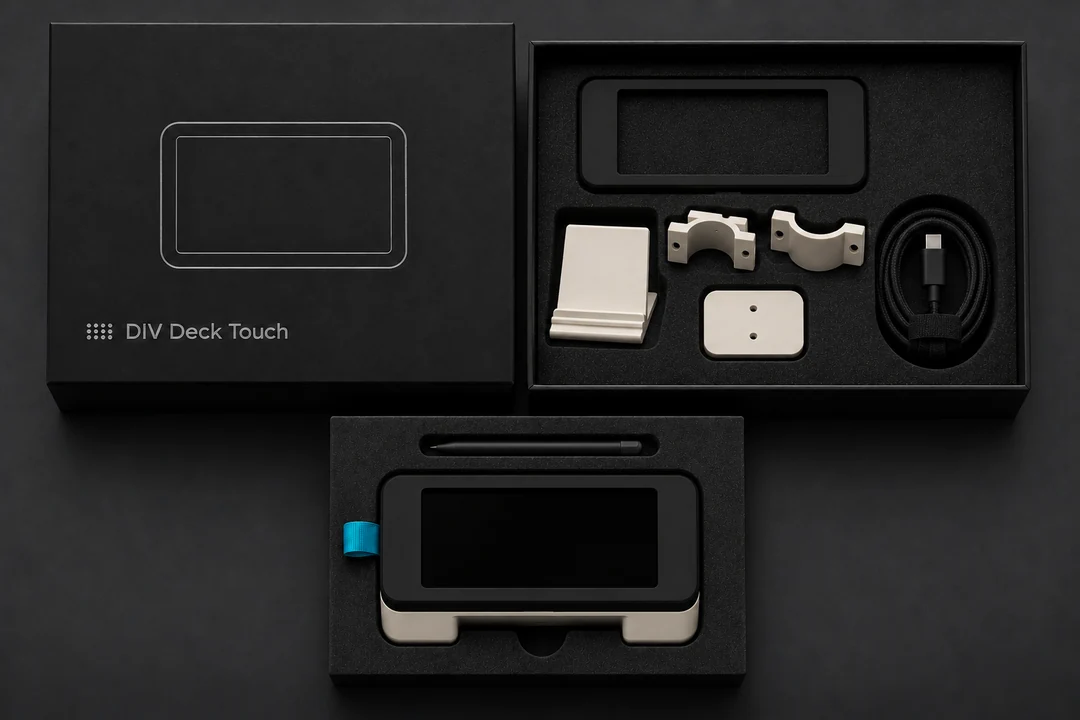
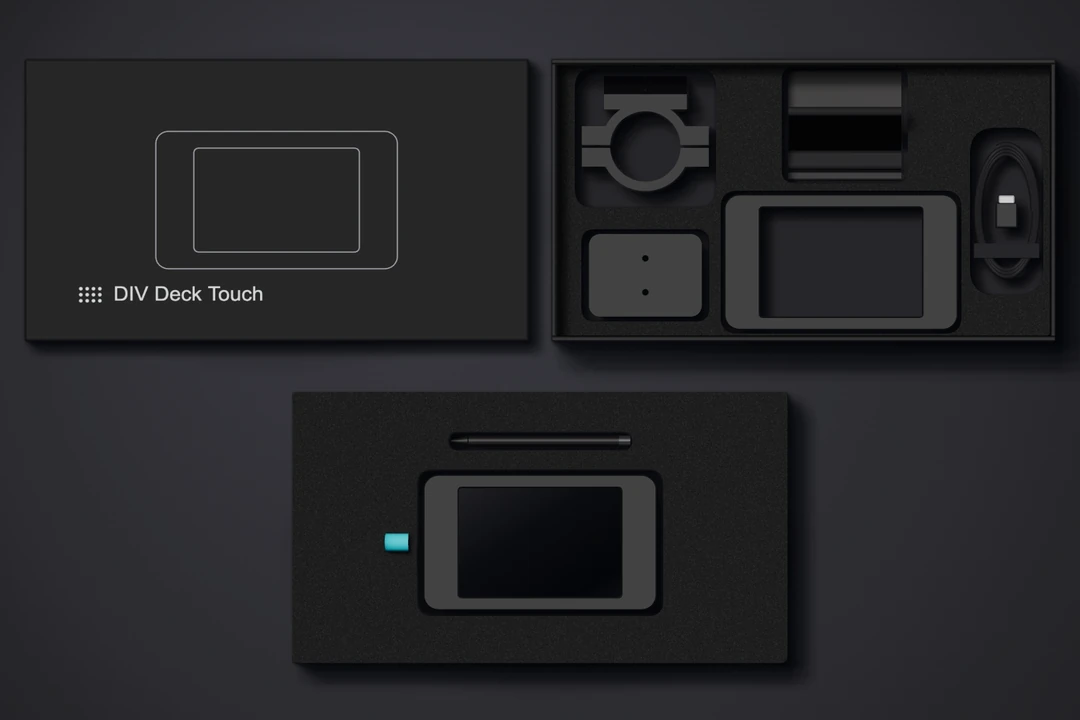
fix(site): render Touch packaging from actual v6 CAD

Changed region(s): [[0.0306, 0.0306, 1.0, 1.0], [0.2444, 0.0306, 0.275, 0.0611], [0.0306, 0.4583, 0.0611, 0.4889]]

diff --git a/docs/index.html b/docs/index.html
@@ -420,8 +420,8 @@ footer a { color: var(--text-2); }
       <p>Deck e caneta juntos no berço. Embaixo: face extra, suportes de mesa e de tubo e cabo USB-C.</p>
       <div class="pack-shots">
         <a href="img/embalagens/touch-lacrada.webp" data-pack-image="DIV Deck Touch · Caixa lacrada"><img src="img/embalagens/touch-lacrada.webp" alt="" width="1080" height="720" loading="lazy" decoding="async">Caixa lacrada</a>
-        <a href="img/embalagens/touch-aberta.webp" data-pack-image="DIV Deck Touch · Caixa aberta"><img src="img/embalagens/touch-aberta.webp" alt="" width="1080" height="720" loading="lazy" decoding="async">Caixa aberta</a>
-        <a href="img/embalagens/touch-acessorios.webp" data-pack-image="DIV Deck Touch · Acessórios"><img src="img/embalagens/touch-acessorios.webp" alt="" width="1080" height="720" loading="lazy" decoding="async">Acessórios</a>
+        <a href="img/embalagens/touch-aberta.webp?v=cad-v6" data-pack-image="DIV Deck Touch · Caixa aberta"><img src="img/embalagens/touch-aberta.webp?v=cad-v6" alt="" width="1080" height="720" loading="lazy" decoding="async">Caixa aberta</a>
+        <a href="img/embalagens/touch-acessorios.webp?v=cad-v6" data-pack-image="DIV Deck Touch · Acessórios"><img src="img/embalagens/touch-acessorios.webp?v=cad-v6" alt="" width="1080" height="720" loading="lazy" decoding="async">Acessórios</a>
       </div>
     </article>
   </div>

diff --git a/web/index.template.html b/web/index.template.html
@@ -420,8 +420,8 @@ footer a { color: var(--text-2); }
       <p>Deck e caneta juntos no berço. Embaixo: face extra, suportes de mesa e de tubo e cabo USB-C.</p>
       <div class="pack-shots">
         <a href="img/embalagens/touch-lacrada.webp" data-pack-image="DIV Deck Touch · Caixa lacrada"><img src="img/embalagens/touch-lacrada.webp" alt="" width="1080" height="720" loading="lazy" decoding="async">Caixa lacrada</a>
-        <a href="img/embalagens/touch-aberta.webp" data-pack-image="DIV Deck Touch · Caixa aberta"><img src="img/embalagens/touch-aberta.webp" alt="" width="1080" height="720" loading="lazy" decoding="async">Caixa aberta</a>
-        <a href="img/embalagens/touch-acessorios.webp" data-pack-image="DIV Deck Touch · Acessórios"><img src="img/embalagens/touch-acessorios.webp" alt="" width="1080" height="720" loading="lazy" decoding="async">Acessórios</a>
+        <a href="img/embalagens/touch-aberta.webp?v=cad-v6" data-pack-image="DIV Deck Touch · Caixa aberta"><img src="img/embalagens/touch-aberta.webp?v=cad-v6" alt="" width="1080" height="720" loading="lazy" decoding="async">Caixa aberta</a>
+        <a href="img/embalagens/touch-acessorios.webp?v=cad-v6" data-pack-image="DIV Deck Touch · Acessórios"><img src="img/embalagens/touch-acessorios.webp?v=cad-v6" alt="" width="1080" height="720" loading="lazy" decoding="async">Acessórios</a>
       </div>
     </article>
   </div>
